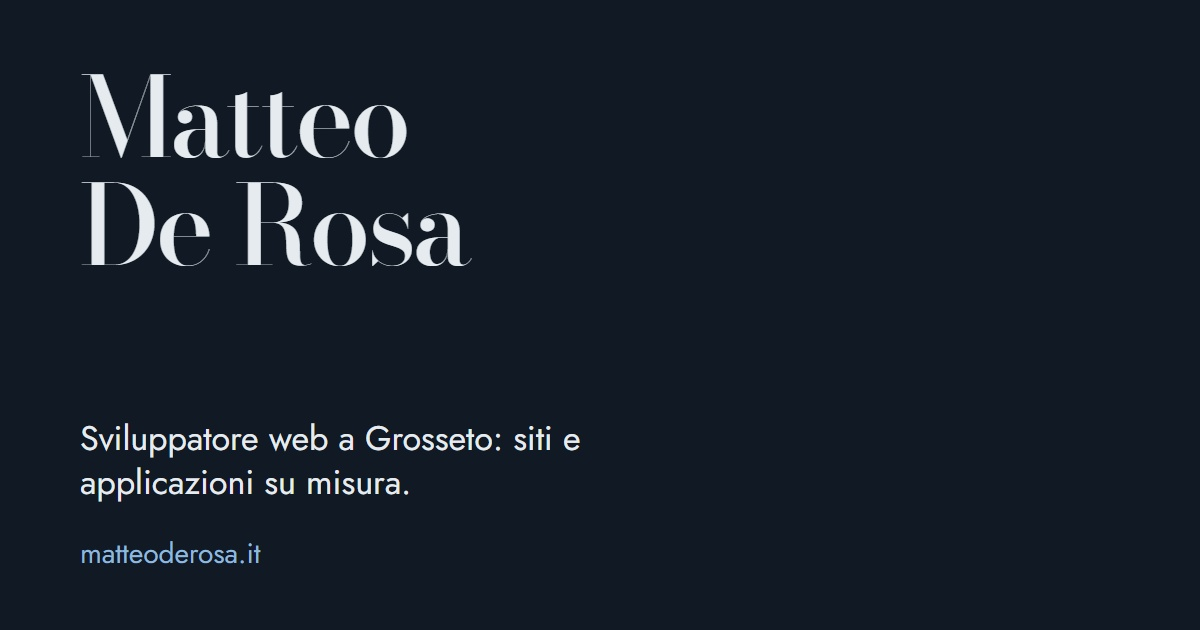
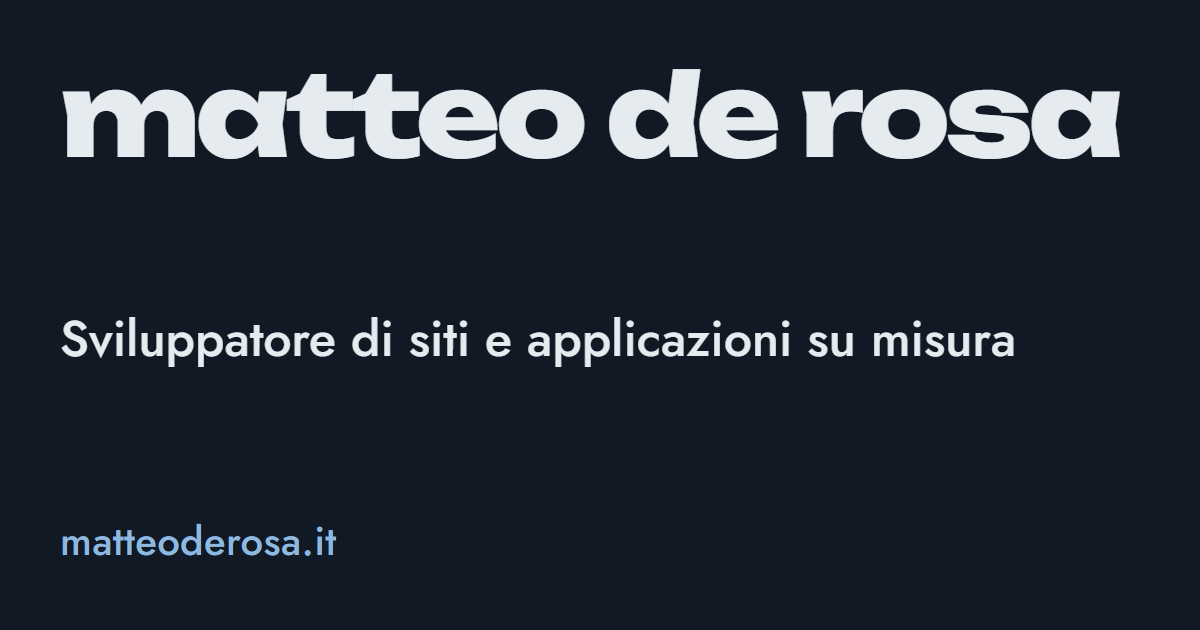
feat: nuova immagine di anteprima e testo breve per i link condivisi
- og-image: nome in Unbounded come nel footer, 'Sviluppatore di siti e
  applicazioni su misura' e matteoderosa.it
- Open Graph e Twitter della home usano 'Visita il mio sito!' / 'Visit my website!';
  la descrizione per Google resta quella completa

diff --git a/src/lib/seo.ts b/src/lib/seo.ts
@@ -25,7 +25,7 @@ function pathFor(key: PageKey, lang: Lang): string | null {
   }
 }
 
-function textFor(key: PageKey, lang: Lang): { title: string; description: string } {
+function textFor(key: PageKey, lang: Lang): { title: string; description: string; share?: string } {
   const d = dictionaries[lang];
   if (typeof key === "object") {
     const p = projects.find((x) => x.slug === key.project);
@@ -35,7 +35,7 @@ function textFor(key: PageKey, lang: Lang): { title: string; description: string
   }
   switch (key) {
     case "home":
-      return { title: `${OWNER} · ${d.home.title}`, description: d.home.intro };
+      return { title: `${OWNER} · ${d.home.title}`, description: d.home.intro, share: d.home.shareText };
     case "projects":
       return { title: `${d.projects.title} · ${OWNER}`, description: d.projects.intro };
     case "about":
@@ -48,7 +48,9 @@ function textFor(key: PageKey, lang: Lang): { title: string; description: string
 export function pageMetadata(key: PageKey, lang: Lang, env?: SiteEnv): Metadata {
   const path = pathFor(key, lang);
   if (!path) throw new Error(`No route for ${JSON.stringify(key)} in "${lang}"`);
-  const { title, description } = textFor(key, lang);
+  const { title, description, share } = textFor(key, lang);
+  // Nell'anteprima dei link (Open Graph e Twitter) può esserci un testo più breve; Google usa la descrizione completa.
+  const shareDescription = share ?? description;
   const url = absoluteUrl(path, env);
 
   const languages: Record<string, string> = {};
@@ -66,7 +68,7 @@ export function pageMetadata(key: PageKey, lang: Lang, env?: SiteEnv): Metadata 
       type: "website",
       url,
       title,
-      description,
+      description: shareDescription,
       siteName: OWNER,
       locale: LOCALE[lang],
       images: [{ url: absoluteUrl("/og-image.png", env), width: 1200, height: 630, alt: OG_ALT[lang] }],
@@ -74,7 +76,7 @@ export function pageMetadata(key: PageKey, lang: Lang, env?: SiteEnv): Metadata 
     twitter: {
       card: "summary_large_image",
       title,
-      description,
+      description: shareDescription,
       images: [absoluteUrl("/og-image.png", env)],
     },
     icons: {

diff --git a/src/content/dictionaries.ts b/src/content/dictionaries.ts
@@ -11,6 +11,8 @@ export type Dictionary = {
   home: {
     title: string;
     intro: string;
+    /** Descrizione breve mostrata nell'anteprima del link (WhatsApp, Instagram…). */
+    shareText: string;
     ctaProjects: string;
     servicesTitle: string;
     servicesProof: string;
@@ -81,6 +83,7 @@ const it: Dictionary = {
     title: "Siti e WebApps su misura",
     intro:
       "Ciao! sono Matteo, sviluppatore web di Grosseto, a Pisa per motivi di studio. Aiuto persone e piccole attività a portare online ciò che serve davvero, in modo semplice e curato.",
+    shareText: "Visita il mio sito!",
     ctaProjects: "Guarda i progetti",
     servicesTitle: "Cosa posso fare per te",
     servicesProof: "Un esempio reale:",
@@ -202,6 +205,7 @@ const en: Dictionary = {
     title: "Custom websites and web apps",
     intro:
       "Hi! I'm Matteo, a web developer from Grosseto, in Pisa for my studies. I help people and small businesses put online what they really need, with simplicity and care.",
+    shareText: "Visit my website!",
     ctaProjects: "See my projects",
     servicesTitle: "What I can do for you",
     servicesProof: "A real example:",
